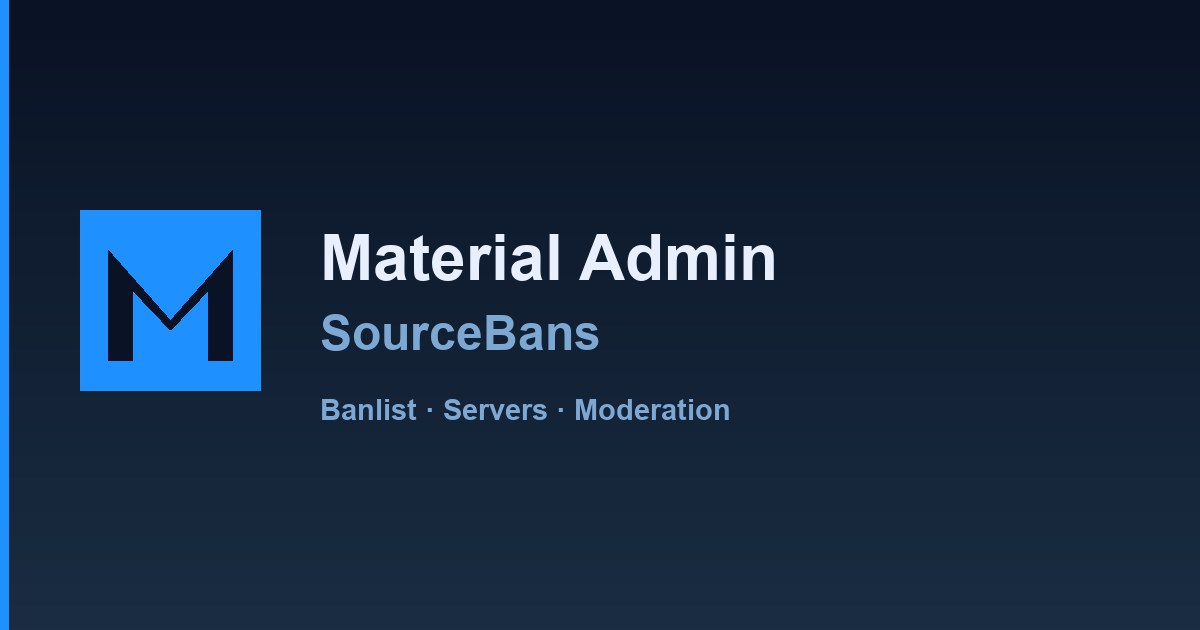
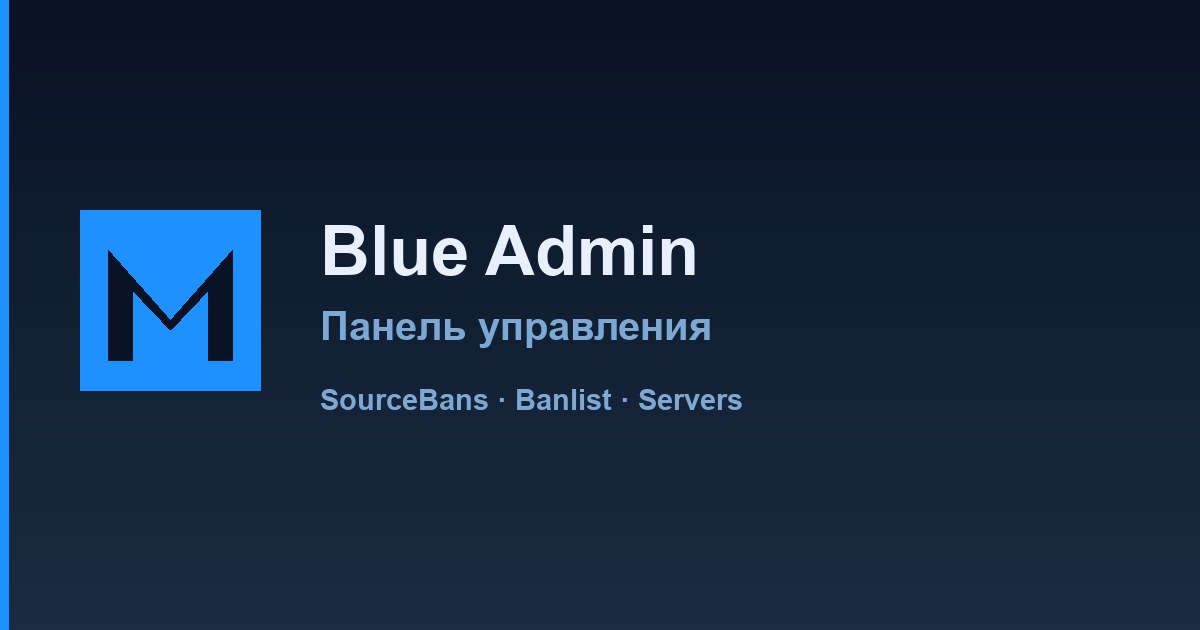
Replace default OG cover with Blue Admin branding.

Changed region(s): [[0.2775, 0.3317, 0.6475, 0.4524], [0.2467, 0.4825, 0.6167, 0.573], [0.2467, 0.6032, 0.6167, 0.6635]]

diff --git a/includes/seo.inc.php b/includes/seo.inc.php
@@ -322,12 +322,12 @@ function sb_write_og_cover_stub($siteRoot)
 		}
 	}
 	if ($font) {
-		imagettftext($im, 48, 0, 320, 280, $white, $font, 'Blue Admin');
-		imagettftext($im, 36, 0, 320, 350, $muted, $font, 'SourceBans');
-		imagettftext($im, 22, 0, 320, 420, $muted, $font, 'Banlist · Servers · Moderation');
+		imagettftext($im, 52, 0, 320, 275, $white, $font, 'Blue Admin');
+		imagettftext($im, 30, 0, 320, 340, $muted, $font, 'Панель управления');
+		imagettftext($im, 22, 0, 320, 410, $muted, $font, 'SourceBans · Banlist · Servers');
 	} else {
-		imagestring($im, 5, 320, 250, 'Blue Admin | SourceBans', $white);
-		imagestring($im, 4, 320, 280, 'Banlist / Servers / Moderation', $muted);
+		imagestring($im, 5, 320, 250, 'Blue Admin', $white);
+		imagestring($im, 4, 320, 280, 'Panel / SourceBans', $muted);
 	}
 
 	$ok = @imagejpeg($im, $path, 88);
